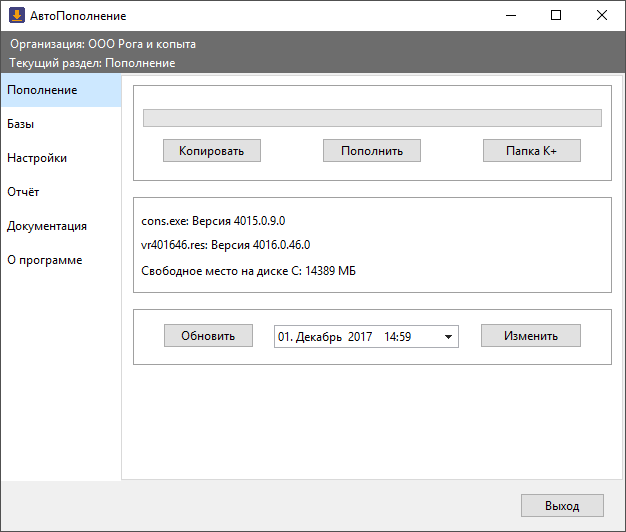
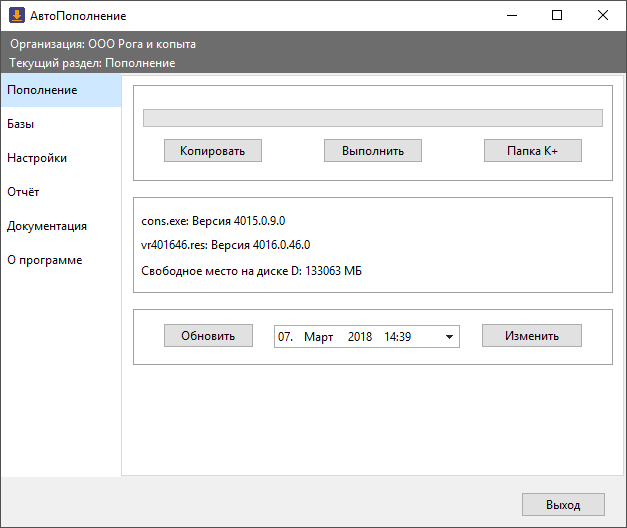
обновление документации

diff --git a/docs/autopopoln.html b/docs/autopopoln.html
@@ -72,7 +72,7 @@
 		<p>В разделе "Пополнение" можно проконтролировать версии файлов cons.exe и *.res. Также там отображается свободное место на диске где установлен ©КонсультантПлюс.</p>
 		<p>Также там отображается текущая дата и время на компьютере клиента. Её можно изменить в поле ввода с помощью клавиатуры или с помощью колёсика мышки. Если программа была запущена с правами администратор, при нажатии на кнопку <kbd>Изменить</kbd> программа сама изменит дату и время, а если нет, запустит системные настройки по изменению даты и времени. </p>
 		<p>При нажатии на кнопку <kbd>Копировать</kbd> программа выполнит выбранные в настройках действия - скопирует обновления с флешки и служебные файлы USR и STT на флешку.</p>
-		<p>Кнопка <kbd>Пополнить</kbd> запускает ©КонсультантПлюс с ключами для принятия скопированных пополнений.</p>
+		<p>Кнопка <kbd>Выполнить</kbd> запускает ©КонсультантПлюс с ключами для принятия скопированных пополнений.</p>
 		<p>Кнопка <kbd>Папка К+</kbd> запустит проводник с открытой папкой где установлен Консультант.</p>
 	  </div>
 	  <div class="col-md-5 order-md-1">
